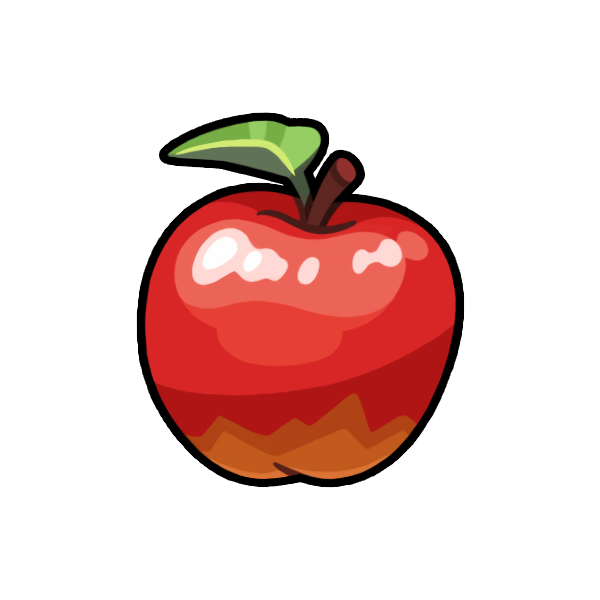
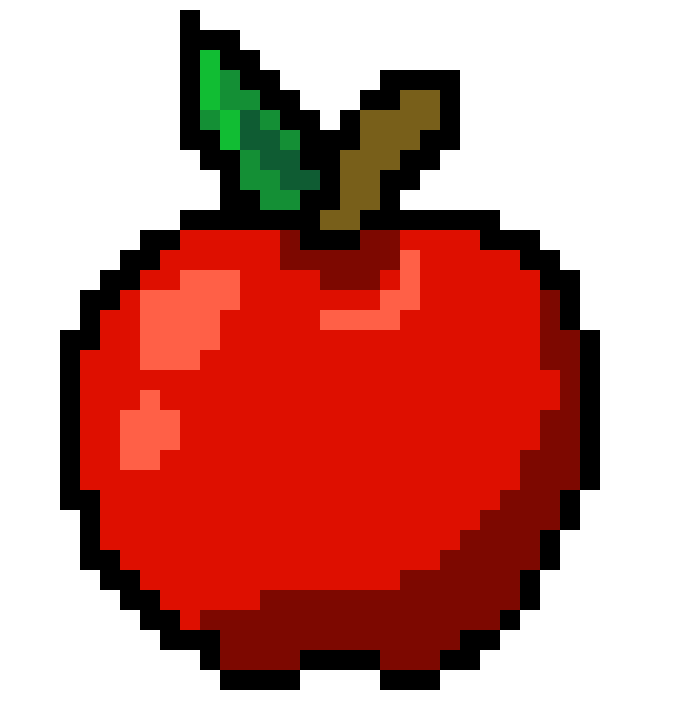
Обновление функционала

diff --git a/main.py b/main.py
@@ -1,14 +1,36 @@
 import os
 import random
-
+import sqlite3
 import pygame
 
 WIDTH, HEIGHT = 900, 600
 PLAYER_SPEED = 15
-APPLE_SPEED = 4
 MAX_MISSED = 5
 
 screen = pygame.display.set_mode((WIDTH, HEIGHT))
+
+
+
+def load_apple_data():
+    conn = sqlite3.connect('apple_farm.db')
+    cursor = conn.cursor()
+    cursor.execute("SELECT apple_id, image_path, points, fall_speed, spawn_rate FROM apples")
+    apples_data = cursor.fetchall()
+    conn.close()
+
+    cleaned_data = []
+    for data in apples_data:
+        apple_id = int(data[0])
+        filename = data[1].split(' ', 1)[-1].strip()
+        path = os.path.join("assets", filename)
+        points = int(data[2])
+        speed = {"slow": 2, "medium": 4, "fast": 6}.get(data[3].lower(), 4)
+        cleaned_data.append((apple_id, path, points, speed, float(data[4])))
+    return cleaned_data
+
+
+APPLE_DATA = load_apple_data()
+SPAWN_WEIGHTS = [data[4] for data in APPLE_DATA]
 
 
 class Player(pygame.sprite.Sprite):
@@ -27,15 +49,25 @@ class Player(pygame.sprite.Sprite):
 class Apple(pygame.sprite.Sprite):
     def __init__(self):
         super().__init__()
-        self.image = pygame.Surface((50, 50))
-        self.image.fill((200, 0, 0))
-        self.rect = self.image.get_rect(topleft=(random.randint(0, WIDTH - 30), -20))
+        self.type_data = random.choices(APPLE_DATA, weights=SPAWN_WEIGHTS, k=1)[0]
+        self.apple_id = self.type_data[0]
+
+        try:
+            self.image = pygame.image.load(self.type_data[1]).convert_alpha()
+            self.image = pygame.transform.scale(self.image, (50, 50))
+        except Exception as e:
+            self.image = pygame.Surface((50, 50))
+            self.image.fill((200, 0, 0))
+
+        self.rect = self.image.get_rect(topleft=(random.randint(0, WIDTH - 50), -20))
+        self.points = self.type_data[2]
+        self.fall_speed = self.type_data[3]
 
     def update(self):
-        self.rect.y += APPLE_SPEED
+        self.rect.y += self.fall_speed
         if self.rect.top > HEIGHT:
             self.kill()
-            return True
+            return self.apple_id == 1
         return False
 
 
@@ -43,7 +75,6 @@ class Game:
     def __init__(self):
         self.background = self.load_background()
         self.clock = pygame.time.Clock()
-
         self.reset()
 
     def load_background(self):
@@ -84,8 +115,9 @@ class Game:
                     self.all_sprites.add(apple)
 
                 self.missed += sum(apple.update() for apple in self.apples)
+
                 hits = pygame.sprite.spritecollide(self.player, self.apples, True)
-                self.score += len(hits)
+                self.score += sum(apple.points for apple in hits)
 
                 if self.missed >= MAX_MISSED:
                     self.running = False
